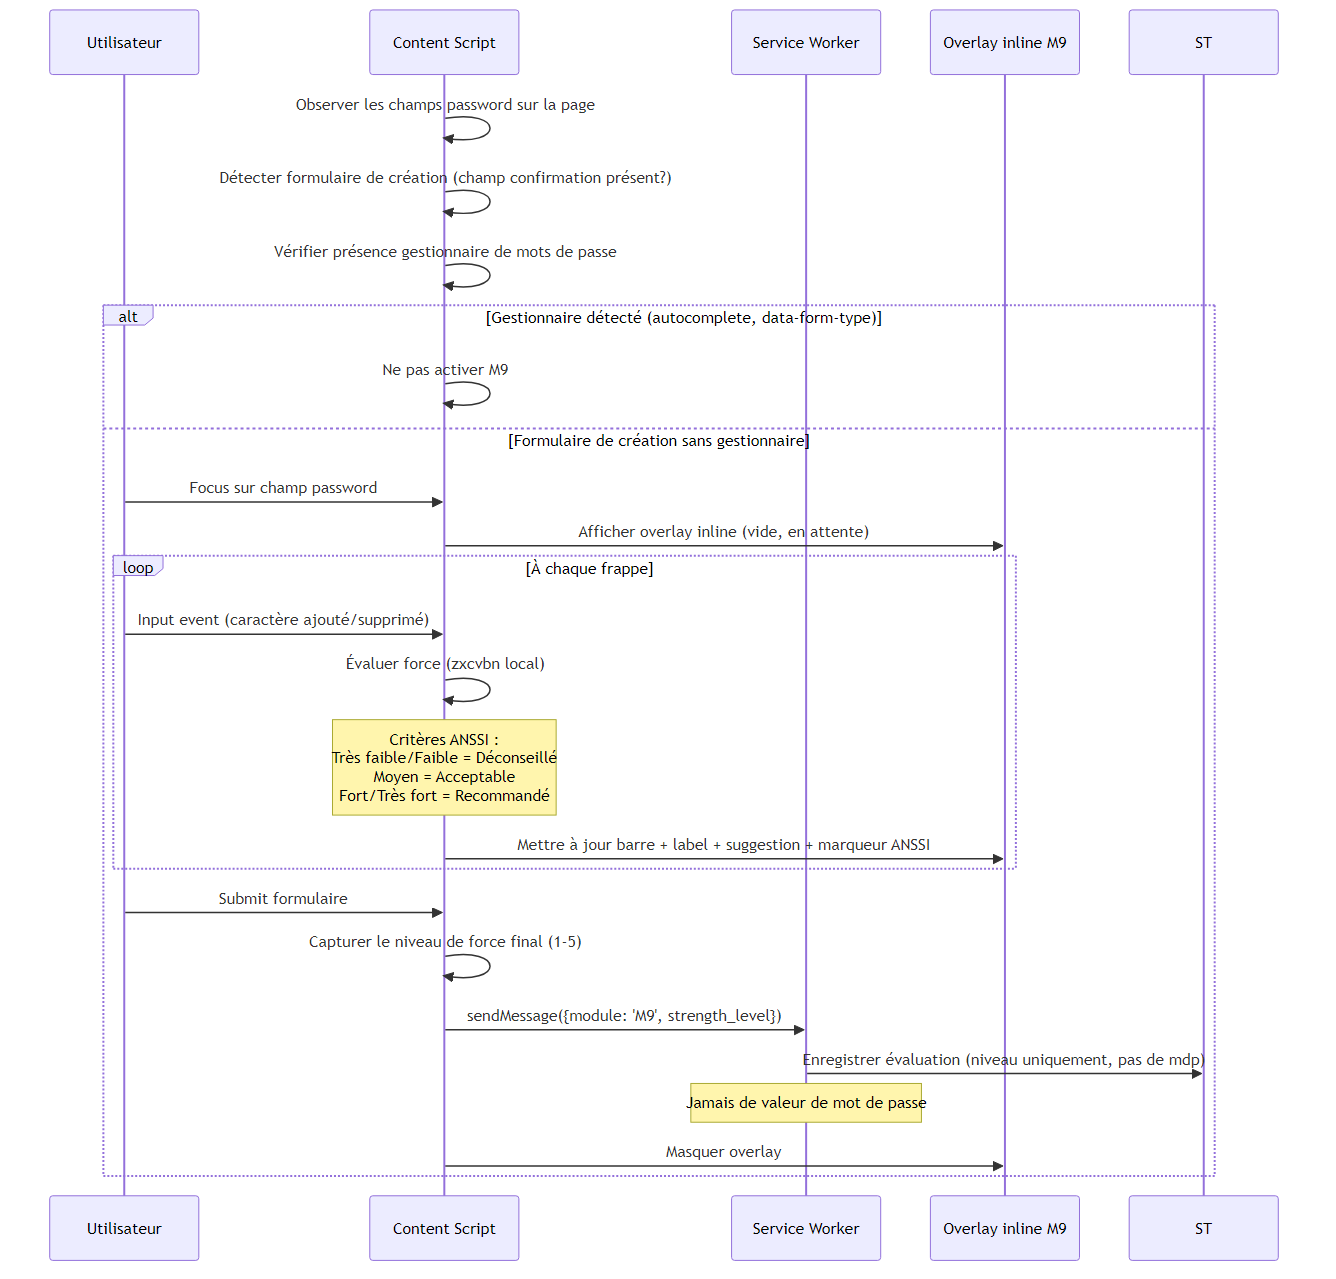
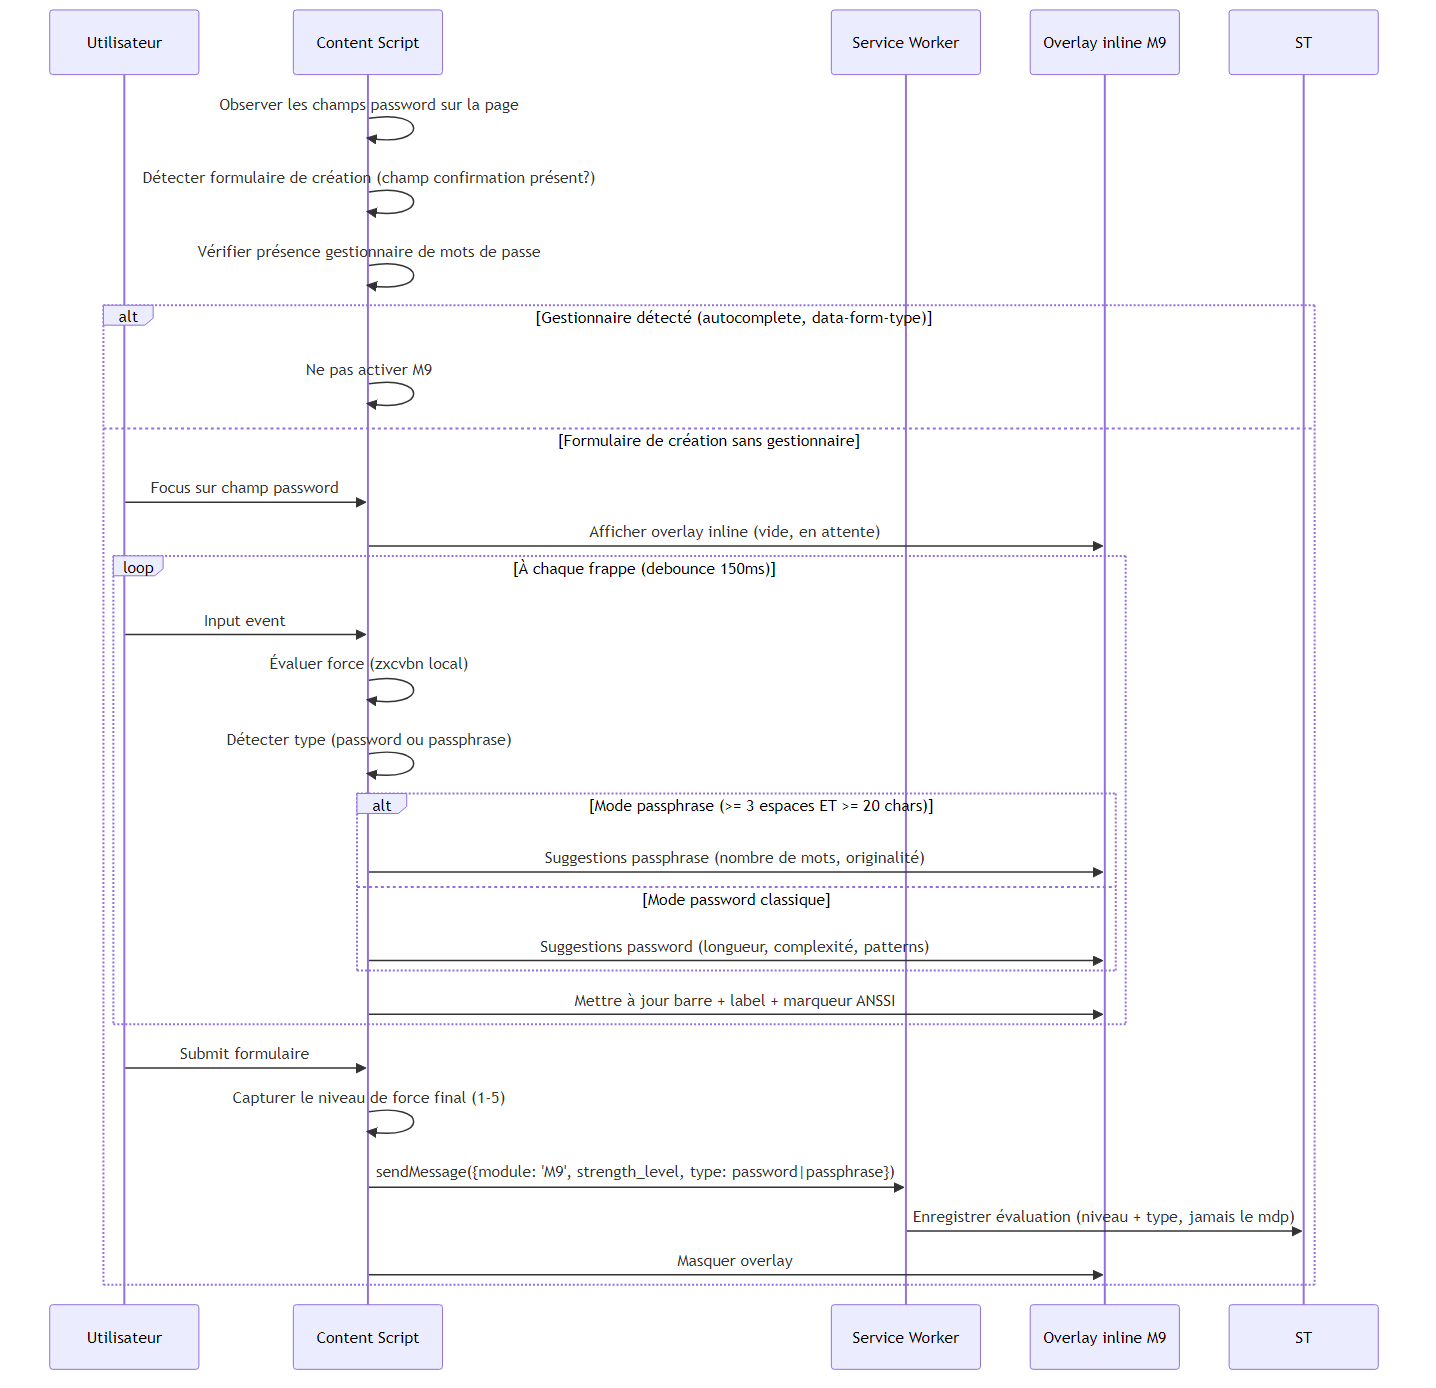
feat: M9 — prise en charge des phrases de passe (passphrase)
Détection automatique du type (password vs passphrase >= 3 espaces + 20 chars).
Suggestions adaptées par mode : passphrase = nombre de mots et originalité,
password = complexité classique + suggestion de phrase de passe.
3 Gherkin ajoutés (CA-M9-08 à 10), 2 cas limites, diagramme de séquence
et PNG mis à jour. Total CA M9 : 13. Total projet : 69.

diff --git a/docs/p2-specifications/p2-sfd-v1.0.md b/docs/p2-specifications/p2-sfd-v1.0.md
@@ -917,18 +917,24 @@ sequenceDiagram
         U->>CS: Focus sur champ password
         CS->>UI: Afficher overlay inline (vide, en attente)
 
-        loop À chaque frappe
-            U->>CS: Input event (caractère ajouté/supprimé)
+        loop À chaque frappe (debounce 150ms)
+            U->>CS: Input event
             CS->>CS: Évaluer force (zxcvbn local)
-            Note over CS: Critères ANSSI :<br/>Très faible/Faible = Déconseillé<br/>Moyen = Acceptable<br/>Fort/Très fort = Recommandé
-            CS->>UI: Mettre à jour barre + label + suggestion + marqueur ANSSI
+            CS->>CS: Détecter type (password ou passphrase)
+
+            alt Mode passphrase (>= 3 espaces ET >= 20 chars)
+                CS->>UI: Suggestions passphrase (nombre de mots, originalité)
+            else Mode password classique
+                CS->>UI: Suggestions password (longueur, complexité, patterns)
+            end
+
+            CS->>UI: Mettre à jour barre + label + marqueur ANSSI
         end
 
         U->>CS: Submit formulaire
         CS->>CS: Capturer le niveau de force final (1-5)
-        CS->>SW: sendMessage({module: 'M9', strength_level})
-        SW->>ST: Enregistrer évaluation (niveau uniquement, pas de mdp)
-        Note over SW: Jamais de valeur de mot de passe
+        CS->>SW: sendMessage({module: 'M9', strength_level, type: password|passphrase})
+        SW->>ST: Enregistrer évaluation (niveau + type, jamais le mdp)
         CS->>UI: Masquer overlay
     end
 ```
@@ -953,15 +959,42 @@ sequenceDiagram
 | 3 | Fort | "Fort" | Vert clair | "Recommandé" | Comptabilisé comme "fort" |
 | 4 | Très fort | "Très fort" | Vert foncé | "Recommandé" | Comptabilisé comme "fort" |
 
-**Suggestions textuelles dynamiques :**
+**Détection du type de mot de passe :**
+
+M9 distingue deux stratégies de création, chacune avec ses propres suggestions :
+
+```
+FONCTION détecter_type(valeur):
+  SI valeur contient >= 3 espaces ET longueur >= 20
+    RETOURNER 'passphrase'
+  SINON
+    RETOURNER 'password'
+```
+
+Une phrase de passe (passphrase) tire sa force de sa longueur et du nombre de mots, pas de la complexité des caractères. Demander des symboles ou des chiffres à un utilisateur qui a choisi une phrase de passe est contre-productif et dégrade l'expérience.
+
+**Suggestions textuelles dynamiques — mode `password` (classique) :**
 
 | Condition | Suggestion |
 |-----------|-----------|
 | Longueur < 12 | "Ajoutez des caractères — visez au moins 12" |
-| Pas de chiffre | "Ajoutez un chiffre pour renforcer la force" |
-| Pas de symbole ET longueur >= 12 | "Ajoutez un caractère spécial (@, #, !) pour passer à Fort" |
+| Pas de chiffre ET pas de symbole | "Ajoutez un chiffre ou un caractère spécial pour renforcer la force" |
+| Pas de symbole ET longueur >= 12 | "Un caractère spécial (@, #, !) vous ferait passer à Fort" |
 | Pattern détecté (123, abc, azerty) | "Évitez les séquences prévisibles" |
+| Score >= 3 | "Bon mot de passe ! Pensez aussi à la phrase de passe : plus longue, plus facile à retenir" |
 | Score = 4 | "Excellent ! Ce mot de passe est très solide" |
+
+**Suggestions textuelles dynamiques — mode `passphrase` :**
+
+| Condition | Suggestion |
+|-----------|-----------|
+| Nombre de mots < 4 | "Ajoutez un ou deux mots pour renforcer votre phrase de passe" |
+| Nombre de mots >= 4 ET score < 3 | "Essayez des mots moins courants ou sans lien logique entre eux" |
+| Mots très courants détectés (le, la, de, un, je, et) | "Remplacez les mots très courants par des mots plus originaux" |
+| Score >= 3 | "Bonne phrase de passe ! Facile à retenir, difficile à deviner" |
+| Score = 4 | "Excellente phrase de passe ! Longue et imprévisible" |
+
+**Note :** L'algorithme zxcvbn gère nativement les phrases de passe (il analyse les séquences de mots via son dictionnaire). Le score zxcvbn reste la référence pour le mapping ANSSI, quel que soit le type détecté. Seules les suggestions textuelles sont adaptées.
 
 #### 2.6.3 Cas limites et gestion d'erreurs
 
@@ -972,10 +1005,40 @@ sequenceDiagram
 | Formulaire avec 3+ champs password (cas rare) | Activer M9 sur le premier champ non-confirmation |
 | Page SPA qui change le formulaire dynamiquement | MutationObserver sur les champs password pour détecter les ajouts/suppressions |
 | Évaluation zxcvbn > 100ms sur appareil lent | Debounce de 150ms sur l'input event pour limiter les évaluations |
+| Phrase de passe sans chiffre ni symbole (ex: "le soleil brille sur la montagne") | Suggestions adaptées au mode passphrase (nombre de mots, originalité). Ne pas demander de chiffres/symboles. |
+| Saisie qui bascule entre modes (ajout/suppression d'espaces) | Réévaluer le type à chaque frappe. La transition est transparente pour l'utilisateur. |
 
 #### 2.6.4 Critères d'acceptation enrichis
 
-**CA-M9-08 — Marqueur ANSSI affiché**
+**CA-M9-08 — Phrase de passe : suggestions adaptées**
+```gherkin
+Given l'overlay M9 est affiché
+  And l'utilisateur saisit "le soleil brille sur la montagne"
+When la saisie est évaluée
+Then le mode "passphrase" est détecté (>= 3 espaces ET longueur >= 20)
+  And la suggestion ne mentionne pas de chiffres ni de caractères spéciaux
+  And la suggestion est adaptée au mode passphrase (ex: "Bonne phrase de passe !")
+```
+
+**CA-M9-09 — Phrase de passe avec mots trop courants**
+```gherkin
+Given l'overlay M9 est affiché
+  And l'utilisateur saisit "le chat est sur la table"
+When la saisie est évaluée
+Then le mode "passphrase" est détecté
+  And la suggestion indique "Remplacez les mots très courants par des mots plus originaux"
+```
+
+**CA-M9-10 — Mot de passe classique : suggestion de phrase de passe**
+```gherkin
+Given l'overlay M9 est affiché
+  And l'utilisateur saisit "Tr0ub4dor&3" (mot de passe classique, score zxcvbn = 3)
+When la saisie est évaluée
+Then le mode "password" est détecté
+  And la suggestion mentionne "Pensez aussi à la phrase de passe : plus longue, plus facile à retenir"
+```
+
+**CA-M9-11 — Marqueur ANSSI affiché**
 ```gherkin
 Given l'overlay M9 est affiché
   And le mot de passe est évalué "Faible" (score zxcvbn = 1)
@@ -984,7 +1047,7 @@ Then le label "Faible" est affiché en rouge
   And le marqueur "Déconseillé par l'ANSSI" est visible à côté du label
 ```
 
-**CA-M9-09 — Détection autocomplete="new-password"**
+**CA-M9-12 — Détection autocomplete="new-password"**
 ```gherkin
 Given une page contient un seul champ password avec autocomplete="new-password"
   And aucun champ de confirmation
@@ -992,7 +1055,7 @@ When l'utilisateur place le focus dans ce champ
 Then l'overlay M9 s'affiche (formulaire de création détecté)
 ```
 
-**CA-M9-10 — Debounce sur appareil lent**
+**CA-M9-13 — Debounce sur appareil lent**
 ```gherkin
 Given l'utilisateur saisit rapidement 10 caractères en 500ms
 When les input events sont reçus
@@ -1583,10 +1646,10 @@ Exemples :
 | M5 | 4 (CA-M5-01 à 04) | 2 (CA-M5-05 à 06) | 6 |
 | M6 | 5 (CA-M6-01 à 05) | 3 (CA-M6-06 à 08) | 8 |
 | M7 | 4 (CA-M7-01 à 04) | 3 (CA-M7-05 à 07) | 7 |
-| M9 | 7 (CA-M9-01 à 07) | 3 (CA-M9-08 à 10) | 10 |
+| M9 | 7 (CA-M9-01 à 07) | 6 (CA-M9-08 à 13) | 13 |
 | M17 | 4 (CA-M17-01 à 04) | 4 (CA-M17-05 à 08) | 8 |
 | Global | 8 (CA-GLOBAL-01 à 08) | 0 | 8 |
-| **Total** | **43** | **23** | **66** |
+| **Total** | **43** | **26** | **69** |
 
 ---
 
